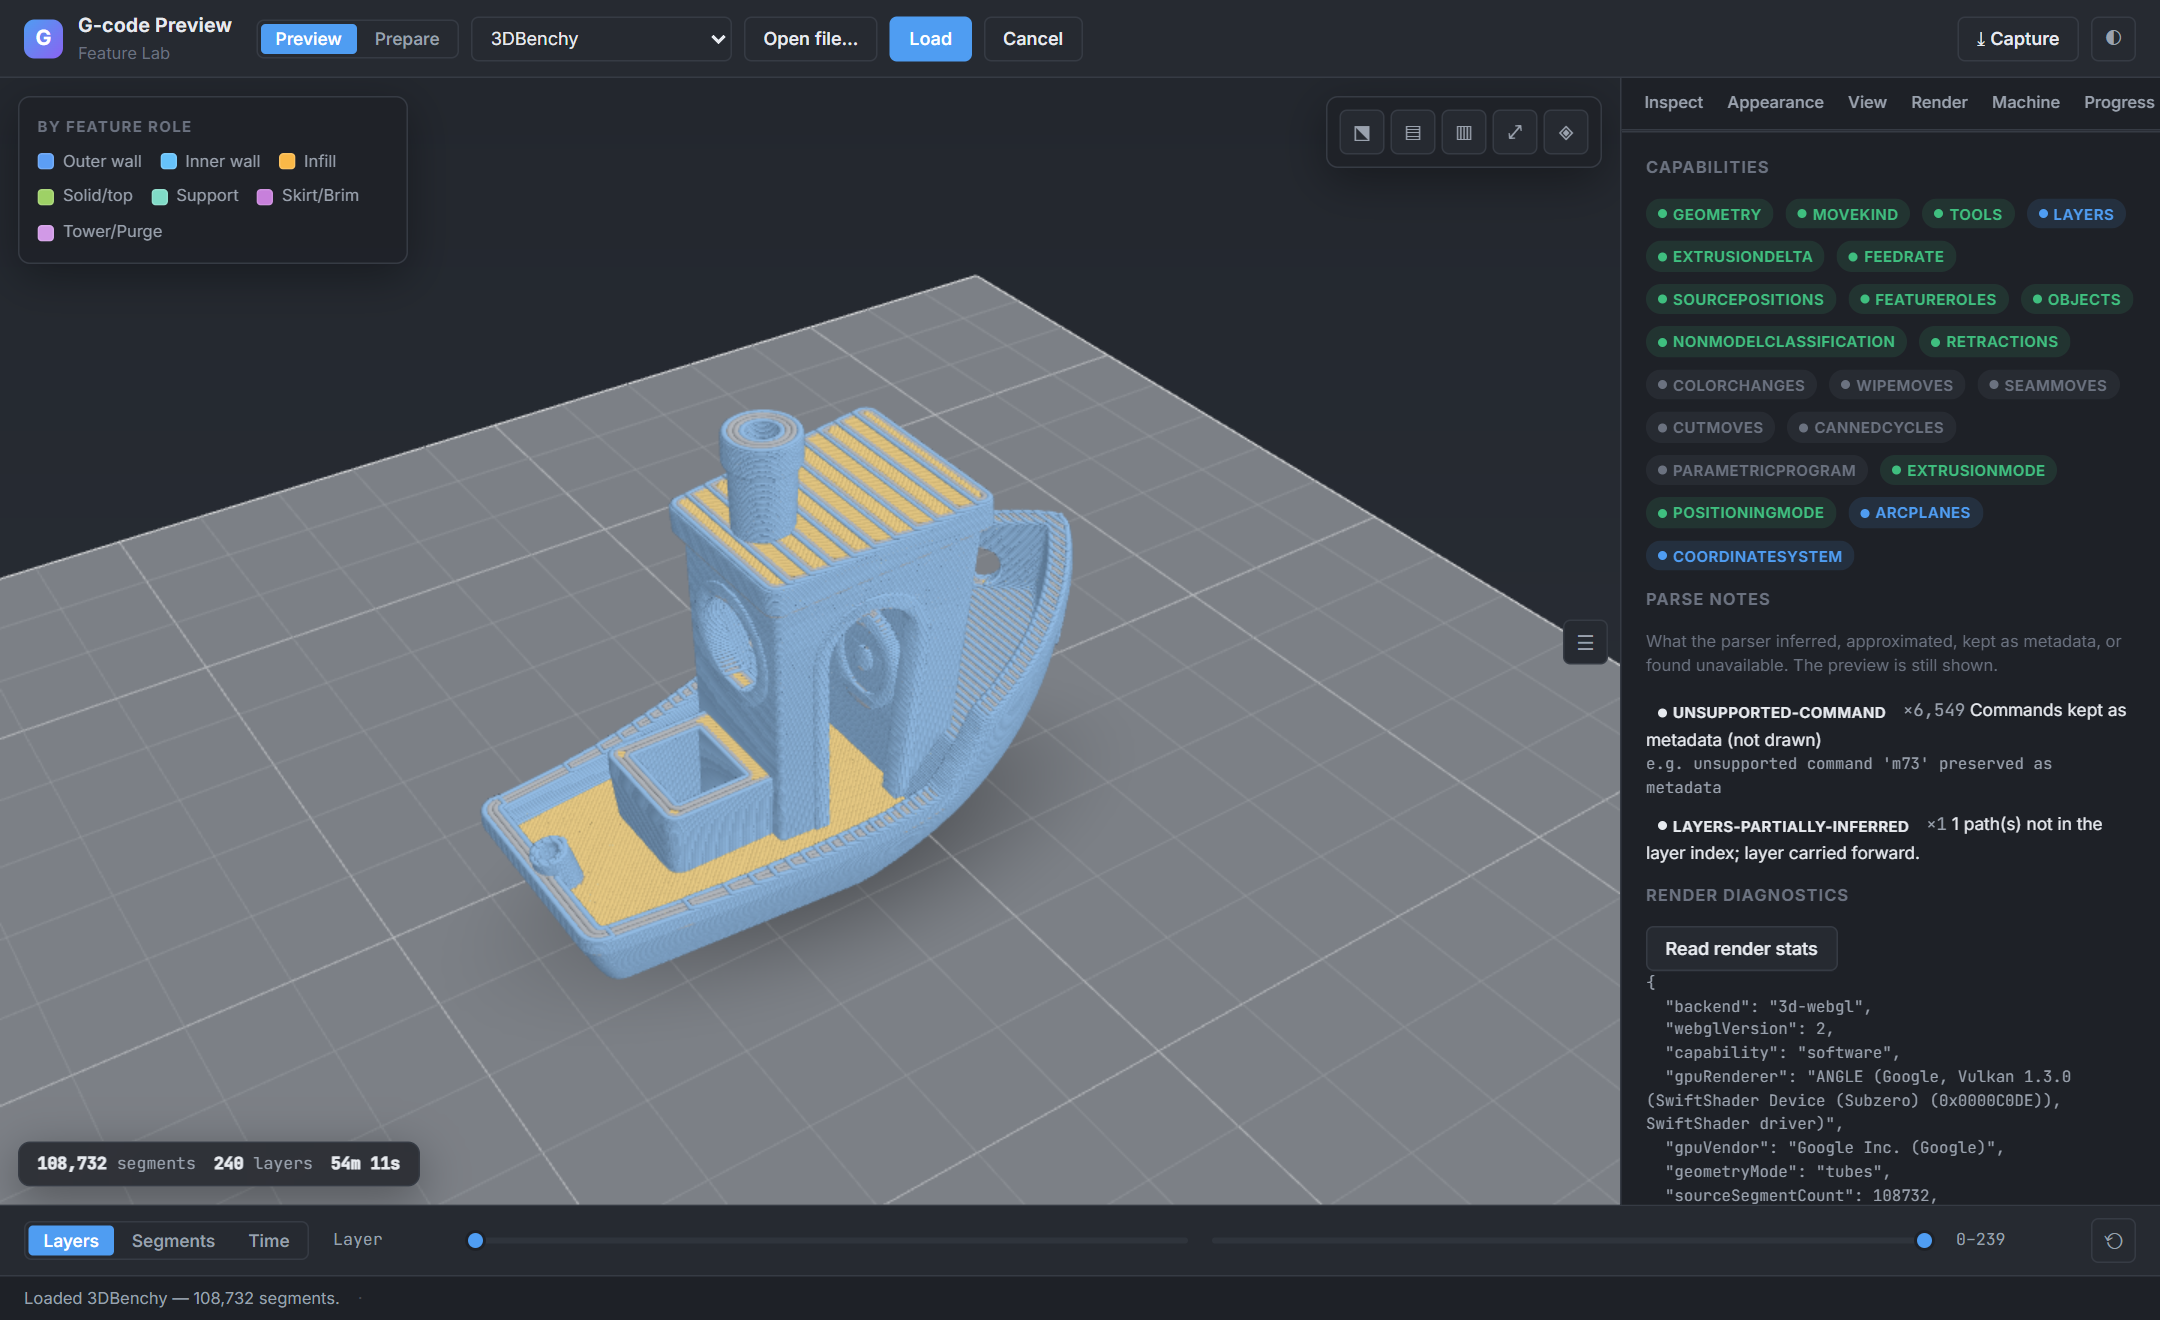
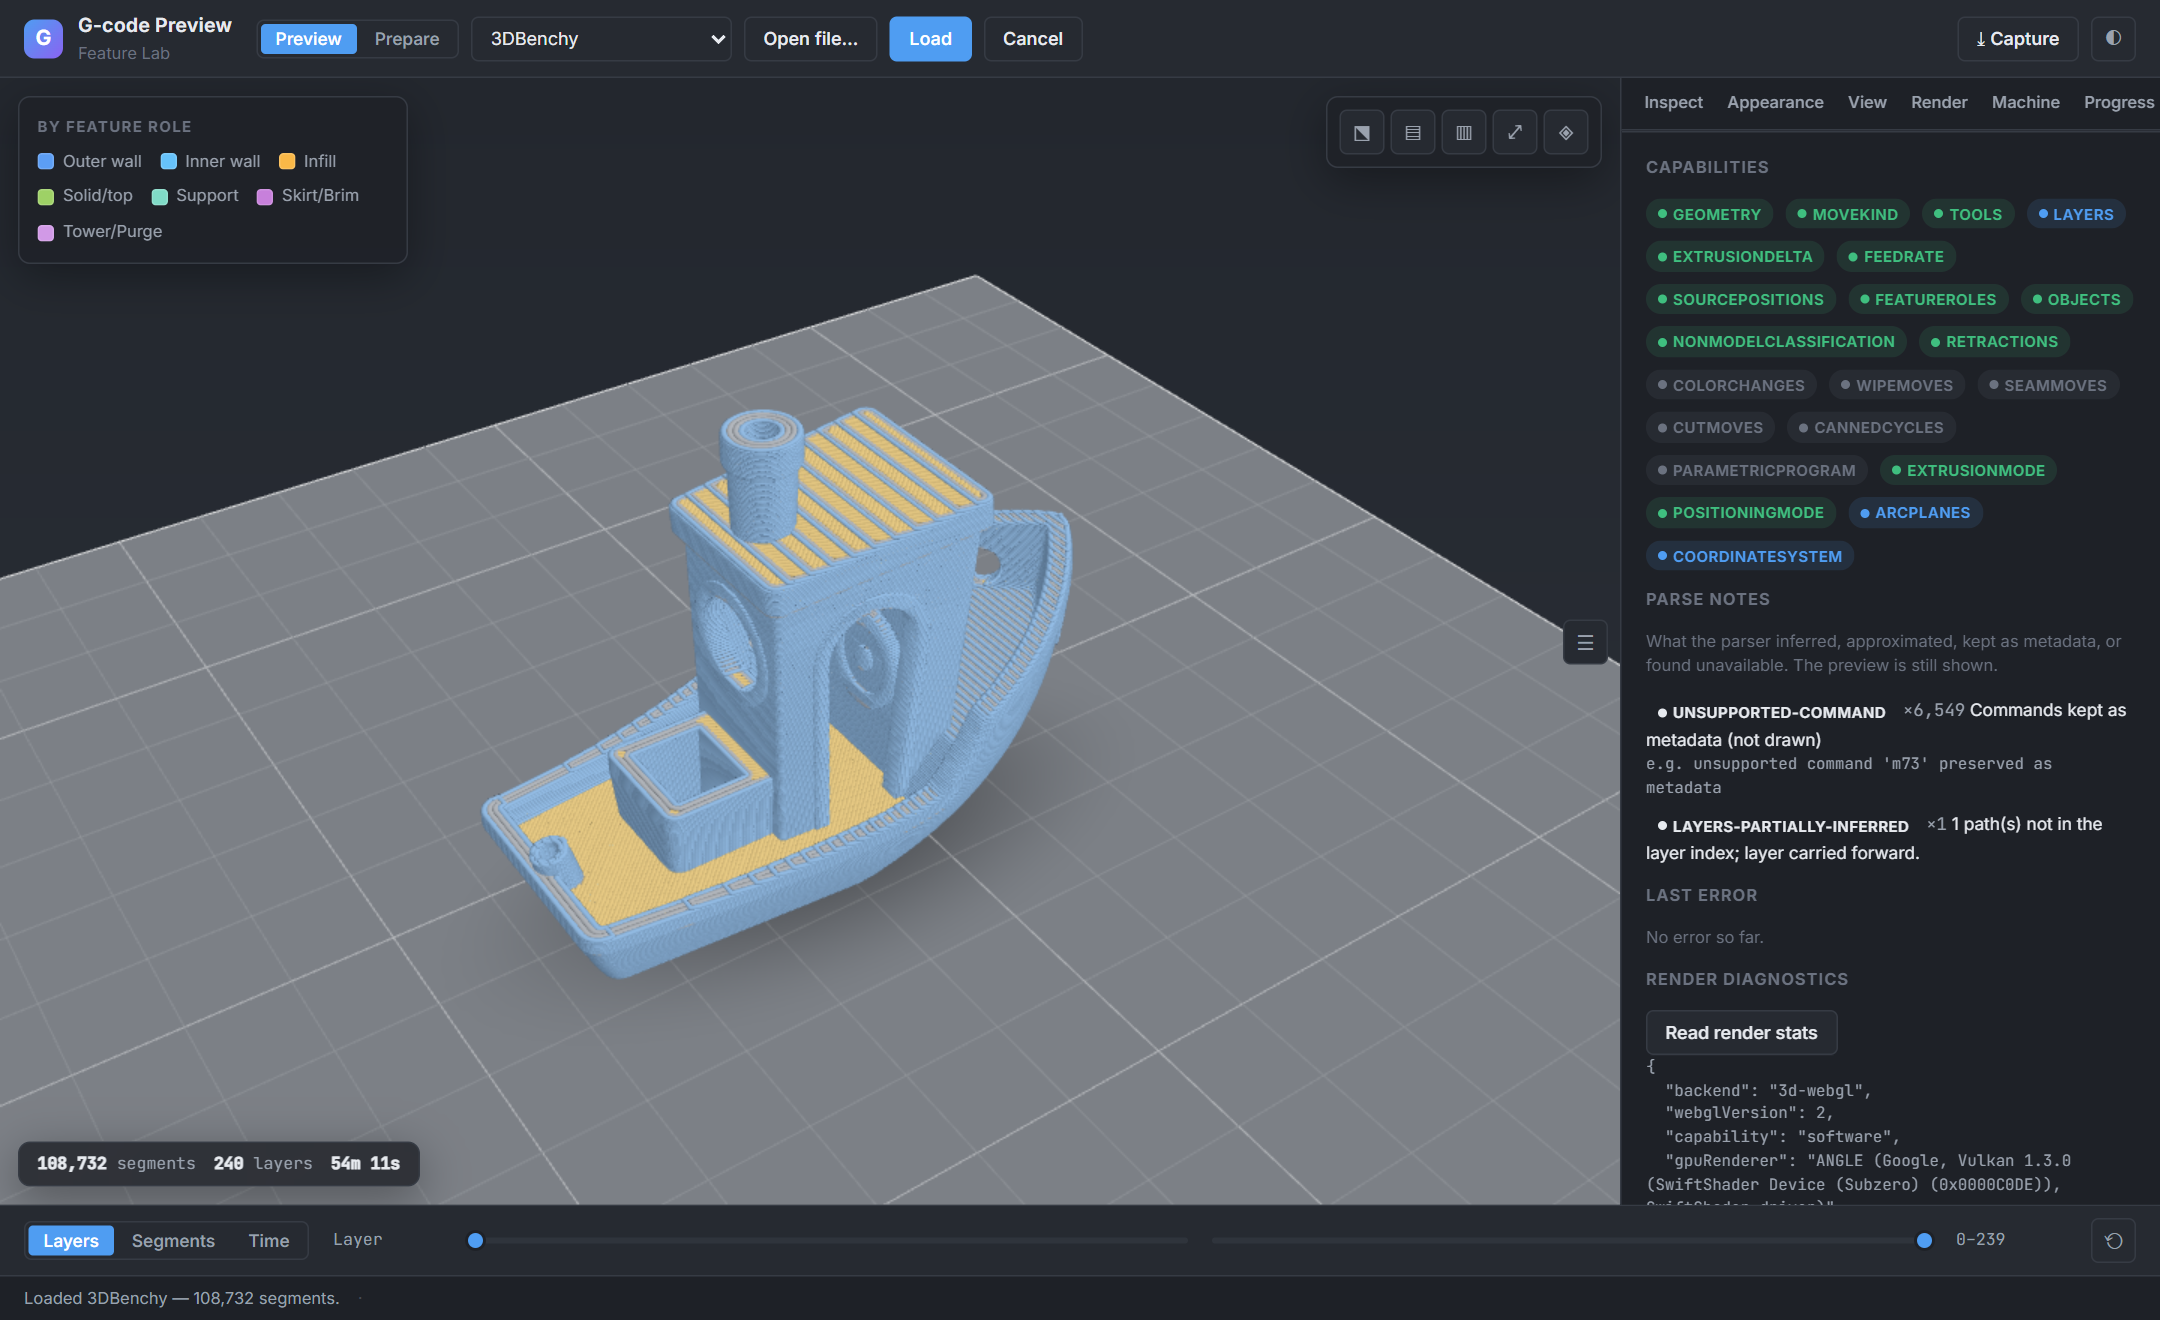
feat(demo): Feature Lab shows error code, reason and cause; Cut moves row follows the file
Diagnostics gets a "Last error" section (code, E_RENDERER_LOAD reason, original error's message from
error.cause), reading public PreviewError fields only. The Cut moves row now reads like Retraction markers:
always present, disabled with "none in this file" when the loaded file has no Cut moves. app-control-panel
and app-diagnostics regenerated.

Changed region(s): [[0.7444, 0.6523, 0.9616, 0.9318]]

diff --git a/tools/demo/src/error-detail.js b/tools/demo/src/error-detail.js
@@ -1,0 +1,85 @@
+/*
+ * Feature Lab "Last error": what the Diagnostics tab shows when a load fails. Reads only the public
+ * PreviewError fields (`code`, `message`, `reason`, `cause`, #589/#596) off the `error` / `parse-error`
+ * events. Pure (no DOM), so the wording and the markup are unit-tested in Node.
+ */
+import { escapeHtml } from './parse-notes.js';
+
+/** What each E_RENDERER_LOAD `reason` means for the person looking at the page. */
+export const REASON_HINTS = {
+  load: 'the renderer code could not be downloaded; reloading the page can help',
+  start: 'the renderer downloaded but could not start, usually no WebGL; the 2D renderer still works'
+};
+
+/** The original error as one line, or null when there is none. Never throws, whatever `cause` is. */
+export function describeCause(cause) {
+  if (cause === undefined || cause === null) return null;
+  try {
+    if (cause instanceof Error)
+      return cause.name && cause.name !== 'Error' ? `${cause.name}: ${cause.message}` : cause.message;
+    if (typeof cause === 'string') return cause;
+    if (typeof cause === 'object' && typeof cause.message === 'string') return cause.message;
+    return String(cause);
+  } catch {
+    return 'unreadable error';
+  }
+}
+
+/** `{ code, message, reason, hint, cause }` for one PreviewError; absent fields are null. */
+export function describeError(e) {
+  const reason = typeof e?.reason === 'string' ? e.reason : null;
+  return {
+    code: String(e?.code ?? 'E_UNKNOWN'),
+    message: String(e?.message ?? ''),
+    reason,
+    hint: reason === null ? null : (REASON_HINTS[reason] ?? null),
+    cause: describeCause(e?.cause)
+  };
+}
+
+export const ERROR_DETAIL_IDLE = '<p class="gp-hint">No error so far.</p>';
+
+/** Markup for one error: a row each for the code, message, reason (E_RENDERER_LOAD) and cause. */
+export function renderErrorDetail(e) {
+  const d = describeError(e);
+  const row = (label, value) =>
+    `<li><span class="gp-note-count">${label}</span> <span class="gp-note-text">${escapeHtml(value)}</span></li>`;
+  const rows = [
+    `<li><span class="gp-badge gp-unavailable">${escapeHtml(d.code)}</span> <span class="gp-note-text">${escapeHtml(d.message)}</span></li>`
+  ];
+  if (d.reason !== null) rows.push(row('reason', d.hint === null ? d.reason : `${d.reason}: ${d.hint}`));
+  if (d.cause !== null) rows.push(row('cause', d.cause));
+  return `<ul class="gp-notes">${rows.join('')}</ul>`;
+}
+
+/**
+ * The section as a reducer over the controller's events. `onEvent(e)` returns the new markup, or `undefined`
+ * for an event it ignores. An `error` (renderer or control) stays until the next `error`. A `parse-error`
+ * is cleared by the next `parse-complete`, which brings a file that did load; it never clears a renderer error.
+ */
+export function createErrorDetail() {
+  let shown = null; // { markup, fromParse }
+  return {
+    onEvent(e) {
+      switch (e?.type) {
+        case 'error':
+          // The renderer also forwards advisory events of this type (e.g. machine-geometry-mismatch, which has
+          // a lower-case code and a severity). A PreviewError code starts with E_.
+          if (typeof e.code !== 'string' || !e.code.startsWith('E_')) return undefined;
+          shown = { markup: renderErrorDetail(e), fromParse: false };
+          return shown.markup;
+        case 'parse-error':
+          shown = { markup: renderErrorDetail(e), fromParse: true };
+          return shown.markup;
+        case 'parse-complete':
+          if (shown !== null && shown.fromParse) {
+            shown = null;
+            return ERROR_DETAIL_IDLE;
+          }
+          return undefined;
+        default:
+          return undefined;
+      }
+    }
+  };
+}

diff --git a/tools/demo/src/main.js b/tools/demo/src/main.js
@@ -30,6 +30,8 @@ import {
 } from '../../demo-kit/index.js';
 import { downloadToolpathStl } from './stl-export.js';
 import { createParseNotes, PARSE_NOTES_IDLE } from './parse-notes.js';
+import { createErrorDetail, ERROR_DETAIL_IDLE } from './error-detail.js';
+import { cutRowState } from './cut-row.js';
 
 const els = {};
 for (const el of document.querySelectorAll('[id]')) els[el.id] = el;
@@ -97,6 +99,8 @@ let fileBytes = 0;
 let capabilities = {};
 let savedCamera = null;
 let ready = false;
+// Does the file on screen have Cut moves? null = no file yet (or none that loaded).
+let fileHasCut = null;
 
 // ---- Prepare (source-model) mode: the second half of the SDK, lazily created on first use ----
 let mode = 'preview'; // 'preview' (toolpath) | 'prepare' (source model)
@@ -340,12 +344,20 @@ async function parseInput(input, label) {
     if (!outcome.cancelled) els.status.textContent = `Parse failed: ${outcome.error.message}`;
     return;
   }
-  // "Cut moves" (#584) is offered only for files that have CNC/laser cutting moves.
+  // "Cut moves" (#584): the row follows the file now on screen (see cutRowState).
   const kinds = outcome.result.ir.segments.kind;
   let hasCut = false;
   for (let i = 0; i < kinds.length && !hasCut; i++) hasCut = (kinds[i] & MoveKind.Cut) !== 0;
-  els.cutRow.hidden = !hasCut;
+  fileHasCut = hasCut;
+  applyCutRow();
   els.status.textContent = `Loaded ${label ?? 'file'} — ${count(outcome.result.ir.segments.count)} segments.`;
+}
+
+function applyCutRow() {
+  const c = cutRowState(fileHasCut, ready);
+  els.cutRow.classList.toggle('gp-disabled', c.disabled);
+  els.cutRow.querySelector('span').textContent = c.label;
+  els.cut.disabled = c.disabled;
 }
 
 function setParsing(on) {
@@ -359,9 +371,14 @@ function setParsing(on) {
 // Parse notes (Diagnostics tab): the pure reducer in parse-notes.js owns the markup; this only assigns it.
 const parseNotes = createParseNotes(count);
 els.parseNotes.innerHTML = PARSE_NOTES_IDLE;
+// Last error (Diagnostics tab): code, reason and the original error's message (#589/#596), public fields only.
+const errorDetail = createErrorDetail();
+els.errorDetail.innerHTML = ERROR_DETAIL_IDLE;
 preview.onEvent((e) => {
   const notesHtml = parseNotes.onEvent(e);
   if (notesHtml !== undefined) els.parseNotes.innerHTML = notesHtml;
+  const errorHtml = errorDetail.onEvent(e);
+  if (errorHtml !== undefined) els.errorDetail.innerHTML = errorHtml;
   switch (e.type) {
     case 'parse-started':
       fileBytes = e.bytes;
@@ -412,6 +429,7 @@ function onReady() {
   // over the source model.
   els.countPill.hidden = mode !== 'preview';
   enableControls(true);
+  applyCutRow(); // enableControls just re-enabled the Cut checkbox
   // scrub ranges
   const state = preview.getState();
   els.segCount.textContent = count(state.segmentCount);

diff --git a/tools/demo/index.html b/tools/demo/index.html
@@ -457,7 +457,7 @@
               <h3>Move visibility</h3>
               <label class="gp-toggle" id="travelRow"><span>Travel moves</span><input type="checkbox" id="travel" /></label>
               <label class="gp-toggle" id="wipeRow"><span>Wipe moves</span><input type="checkbox" id="wipe" checked /></label>
-              <label class="gp-toggle" id="cutRow" hidden><span>Cut moves</span><input type="checkbox" id="cut" checked /></label>
+              <label class="gp-toggle" id="cutRow"><span>Cut moves</span><input type="checkbox" id="cut" checked /></label>
               <label class="gp-toggle" id="retractRow"><span>Retraction markers</span><input type="checkbox" id="retractions" /></label>
               <div class="gp-panel" data-context="adhesion" style="padding: var(--gp-space-3) 0 0" hidden>
                 <label class="gp-toggle" id="adhesionRow"><span>Hide brim / skirt</span><input type="checkbox" id="hideAdhesion" /></label>
@@ -640,6 +640,8 @@
                 shown.
               </p>
               <div id="parseNotes" style="margin-bottom: var(--gp-space-3)"></div>
+              <h3>Last error</h3>
+              <div id="errorDetail" style="margin-bottom: var(--gp-space-3)"></div>
               <h3>Render diagnostics</h3>
               <button class="gp-btn" id="showStats">Read render stats</button>
               <pre id="renderStats">Load a file, then read the render stats (backend, GPU, geometry, timings).</pre>

diff --git a/tools/demo/src/cut-row.js b/tools/demo/src/cut-row.js
@@ -1,0 +1,13 @@
+/*
+ * Feature Lab "Cut moves" row: how it reads for the file on screen, the same way the Retraction markers row
+ * does. `hasCut` is true/false for a loaded file and null when no file is on screen; `ready` is whether the
+ * viewer can take controls. Pure (no DOM), so the wording is unit-tested in Node.
+ */
+export const CUT_LABEL = 'Cut moves';
+export const CUT_LABEL_NONE = 'Cut moves — none in this file';
+
+export function cutRowState(hasCut, ready) {
+  if (ready && hasCut === false) return { label: CUT_LABEL_NONE, disabled: true };
+  // Not ready (nothing loaded, or loading): disabled like every runtime control, plain label.
+  return { label: CUT_LABEL, disabled: !ready };
+}
